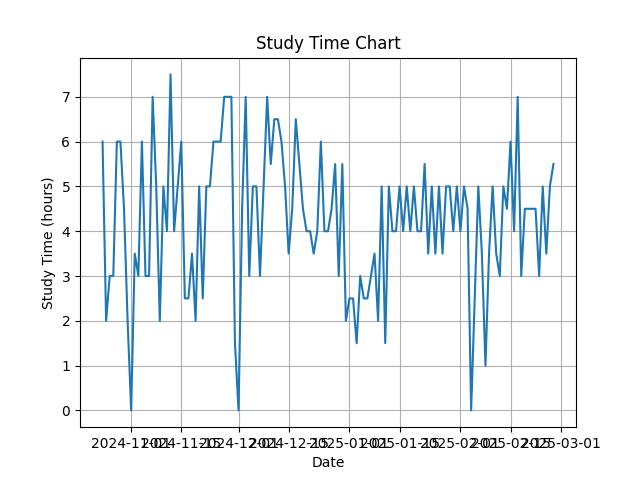
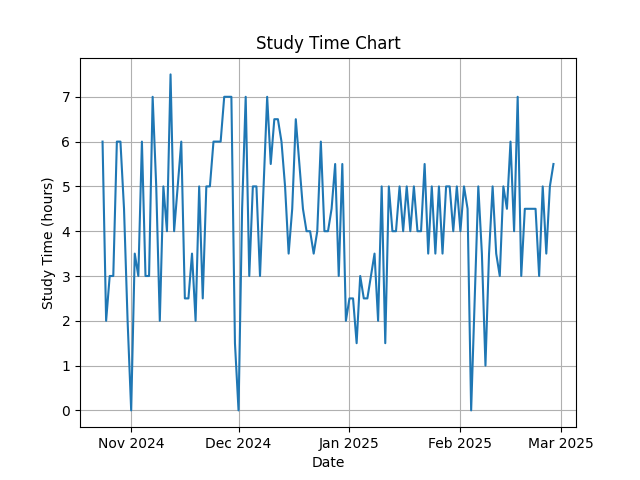
グラフ追加と統計追加
グラフは完成、統計はできてない

Changed region(s): [[0.125, 0.9062, 0.9375, 0.9375]]

diff --git a/myproject/myapp/templates/myapp/study_time_chart.html b/myproject/myapp/templates/myapp/study_time_chart.html
@@ -1,17 +1,28 @@
 <!DOCTYPE html>
-<html lang="en">
+<html lang="ja">
 <head>
-    {% load static%}
+    {% load static %}
     <meta charset="UTF-8">
     <meta name="viewport" content="width=device-width, initial-scale=1.0">
     <title>Study Time Chart</title>
     <link rel="stylesheet" type="text/css" href="{% static 'myapp/css/study_time_chart.css' %}">
 </head>
 <body>
-    <h1>Study Time Chart</h1>
+    <h1>勉強時間の統計</h1>
     <div>
         <img src="{% url 'chart_image' %}" alt="Study Time Chart">
+        <ul>
+            {% if stats %}
+                {% for key, value in stats.items %}
+                    <li>{{ key }}: {{ value }}</li>
+                {% endfor %}
+            {% else %}
+                <li>データがありません。</li>
+            {% endif %}
+        </ul>
     </div>
     <p><a href="{% url 'home' %}">Back to Home</a></p>
 </body>
 </html>
+
+

diff --git a/myproject/myapp/views.py b/myproject/myapp/views.py
@@ -1,12 +1,16 @@
 from django.shortcuts import render
 from django.http import HttpResponse
 from django.conf import settings
+from django.utils import timezone
 from matplotlib.backends.backend_agg import FigureCanvasAgg as FigureCanvas
 import matplotlib
 matplotlib.use('Agg')
 import matplotlib.pyplot as plt
 import os
 import urllib, base64
+import numpy as np
+import pandas as pd
+import logging
 from .models import Studyrecord
 
 # Create your views here.
@@ -30,6 +34,12 @@ def chart_image(request):
            title='Study Time Chart')
     ax.grid()
     
+    #x軸ラベルをカスタマイズ
+   # x軸ラベルの間隔を設定
+    import matplotlib.dates as mdates
+    ax.xaxis.set_major_locator(mdates.MonthLocator())
+    ax.xaxis.set_major_formatter(mdates.DateFormatter('%b %Y'))
+    
     #グラフをファイルに保存
     image_path = os.path.join(settings.MEDIA_ROOT, 'chart.png')
     canvas = FigureCanvas(fig)
@@ -40,4 +50,49 @@ def chart_image(request):
     canvas.print_png(response)
     return response
     
+logger = logging.getLogger(__name__)
+def study_time_stats(request):
+    # データの取得
+    study_data = Studyrecord.objects.all()
     
+    #デバック用
+    logger.debug(f'Study data: {list(study_data)}')
+    print(f'Study data: {list(study_data)}')
+    if not study_data:
+        return render(request, 'myapp/study_time_chart.html', {'stats': None})
+    
+    # リストからnumpy配列に変換
+    study_times = np.array([record['study_time'] for record in study_data])
+    dates = np.array([record['date'] for record in study_data])
+    
+    # 勉強時間の統計量計算（最大、最小、平均、中央値、合計、カウント）
+    max_study_time = float(np.max(study_times))
+    min_study_time = float(np.min(study_times))
+    avg_study_time = float(np.mean(study_times))
+    median_study_time = float(np.median(study_times))
+    total_study_time = float(np.sum(study_times))
+    count_study_time = int(len(study_times))
+
+    # 今日の日付
+    today = timezone.now().date()
+
+    # 今日の勉強時間の順位を計算
+    today_study_records = Studyrecord.objects.filter(date=today).order_by('-study_time')
+    if today_study_records.exists():
+        today_study_times = np.array(today_study_records.values_list('study_time', flat=True))
+        today_rank_times = study_times[dates == today]
+        rank = list(today_study_times).index(today_rank_times[0]) + 1 if len(today_rank_times) > 0 else 'No Data'
+    else:
+        rank = 'No Data'  # 今日のデータが存在しない場合
+
+    stats = {
+        '最大': max_study_time,
+        '最小': min_study_time,
+        '平均': avg_study_time,
+        '中央値': median_study_time,
+        '合計': total_study_time,
+        'カウント': count_study_time,
+        '今日の順位': rank
+    }
+
+    return render(request, 'myapp/study_time_chart.html', {'stats': stats})

diff --git a/myproject/myproject/settings.py b/myproject/myproject/settings.py
@@ -37,6 +37,8 @@ INSTALLED_APPS = [
     'django.contrib.sessions',
     'django.contrib.messages',
     'django.contrib.staticfiles',
+    'import_export',
+    'myapp',
 ]
 
 MIDDLEWARE = [
@@ -51,10 +53,16 @@ MIDDLEWARE = [
 
 ROOT_URLCONF = 'myproject.urls'
 
+import os
+
+BASE_DIR = os.path.dirname(os.path.dirname(os.path.abspath(__file__)))
+
+STATIC_URL = '/static/'
+
 TEMPLATES = [
     {
         'BACKEND': 'django.template.backends.django.DjangoTemplates',
-        'DIRS': [],
+        'DIRS': [os.path.join(BASE_DIR, 'templates')],
         'APP_DIRS': True,
         'OPTIONS': {
             'context_processors': [
@@ -72,6 +80,17 @@ WSGI_APPLICATION = 'myproject.wsgi.application'
 
 # Database
 # https://docs.djangoproject.com/en/5.1/ref/settings/#databases
+
+import os 
+from pathlib import Path
+
+BASE_DIR = Path(__file__).resolve().parent.parent
+DATABASES = {
+    'default': {
+        'ENGINE': 'django.db.backends.sqlite3',
+        'NAME': BASE_DIR / 'db.sqlite3',
+    }
+}
 
 DATABASES = {
     'default': {

diff --git a/myproject/myproject/urls.py b/myproject/myproject/urls.py
@@ -16,7 +16,11 @@ Including another URLconf
 """
 from django.contrib import admin
 from django.urls import path
+from myapp import views
 
 urlpatterns = [
     path('admin/', admin.site.urls),
+    path('', views.home, name='home'),
+    path('study-time/', views.study_time_chart, name='study_time_chart'),
+    path('chart-image/', views.chart_image, name='chart_image'),
 ]
